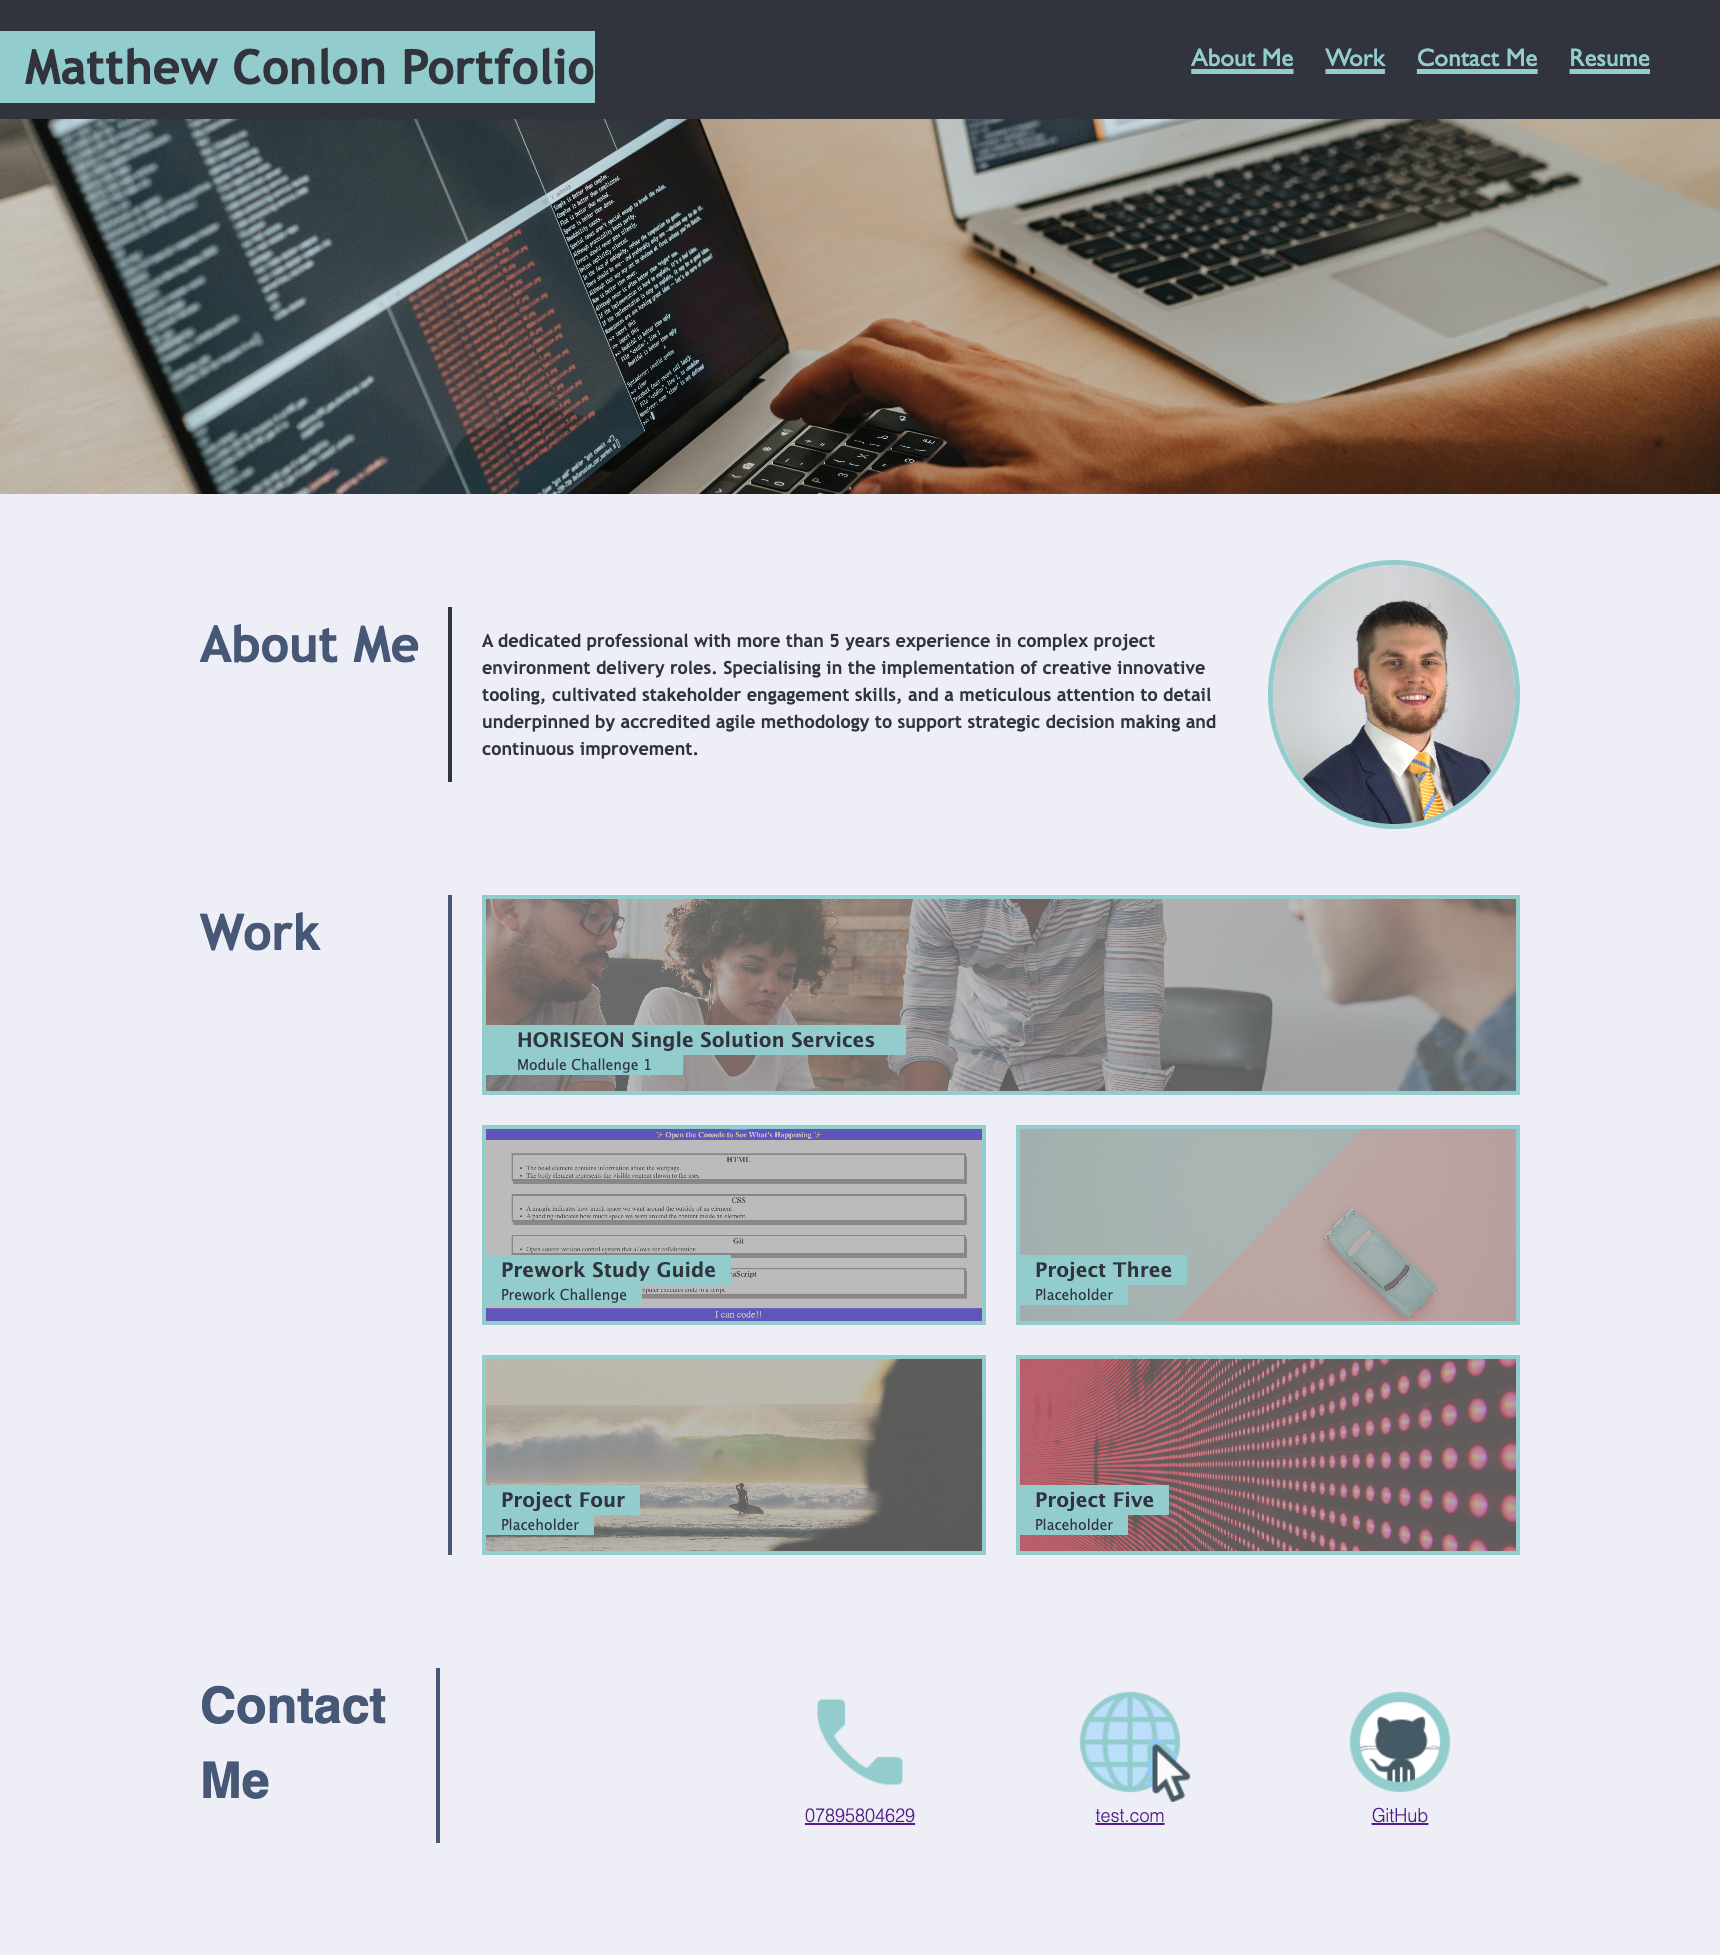
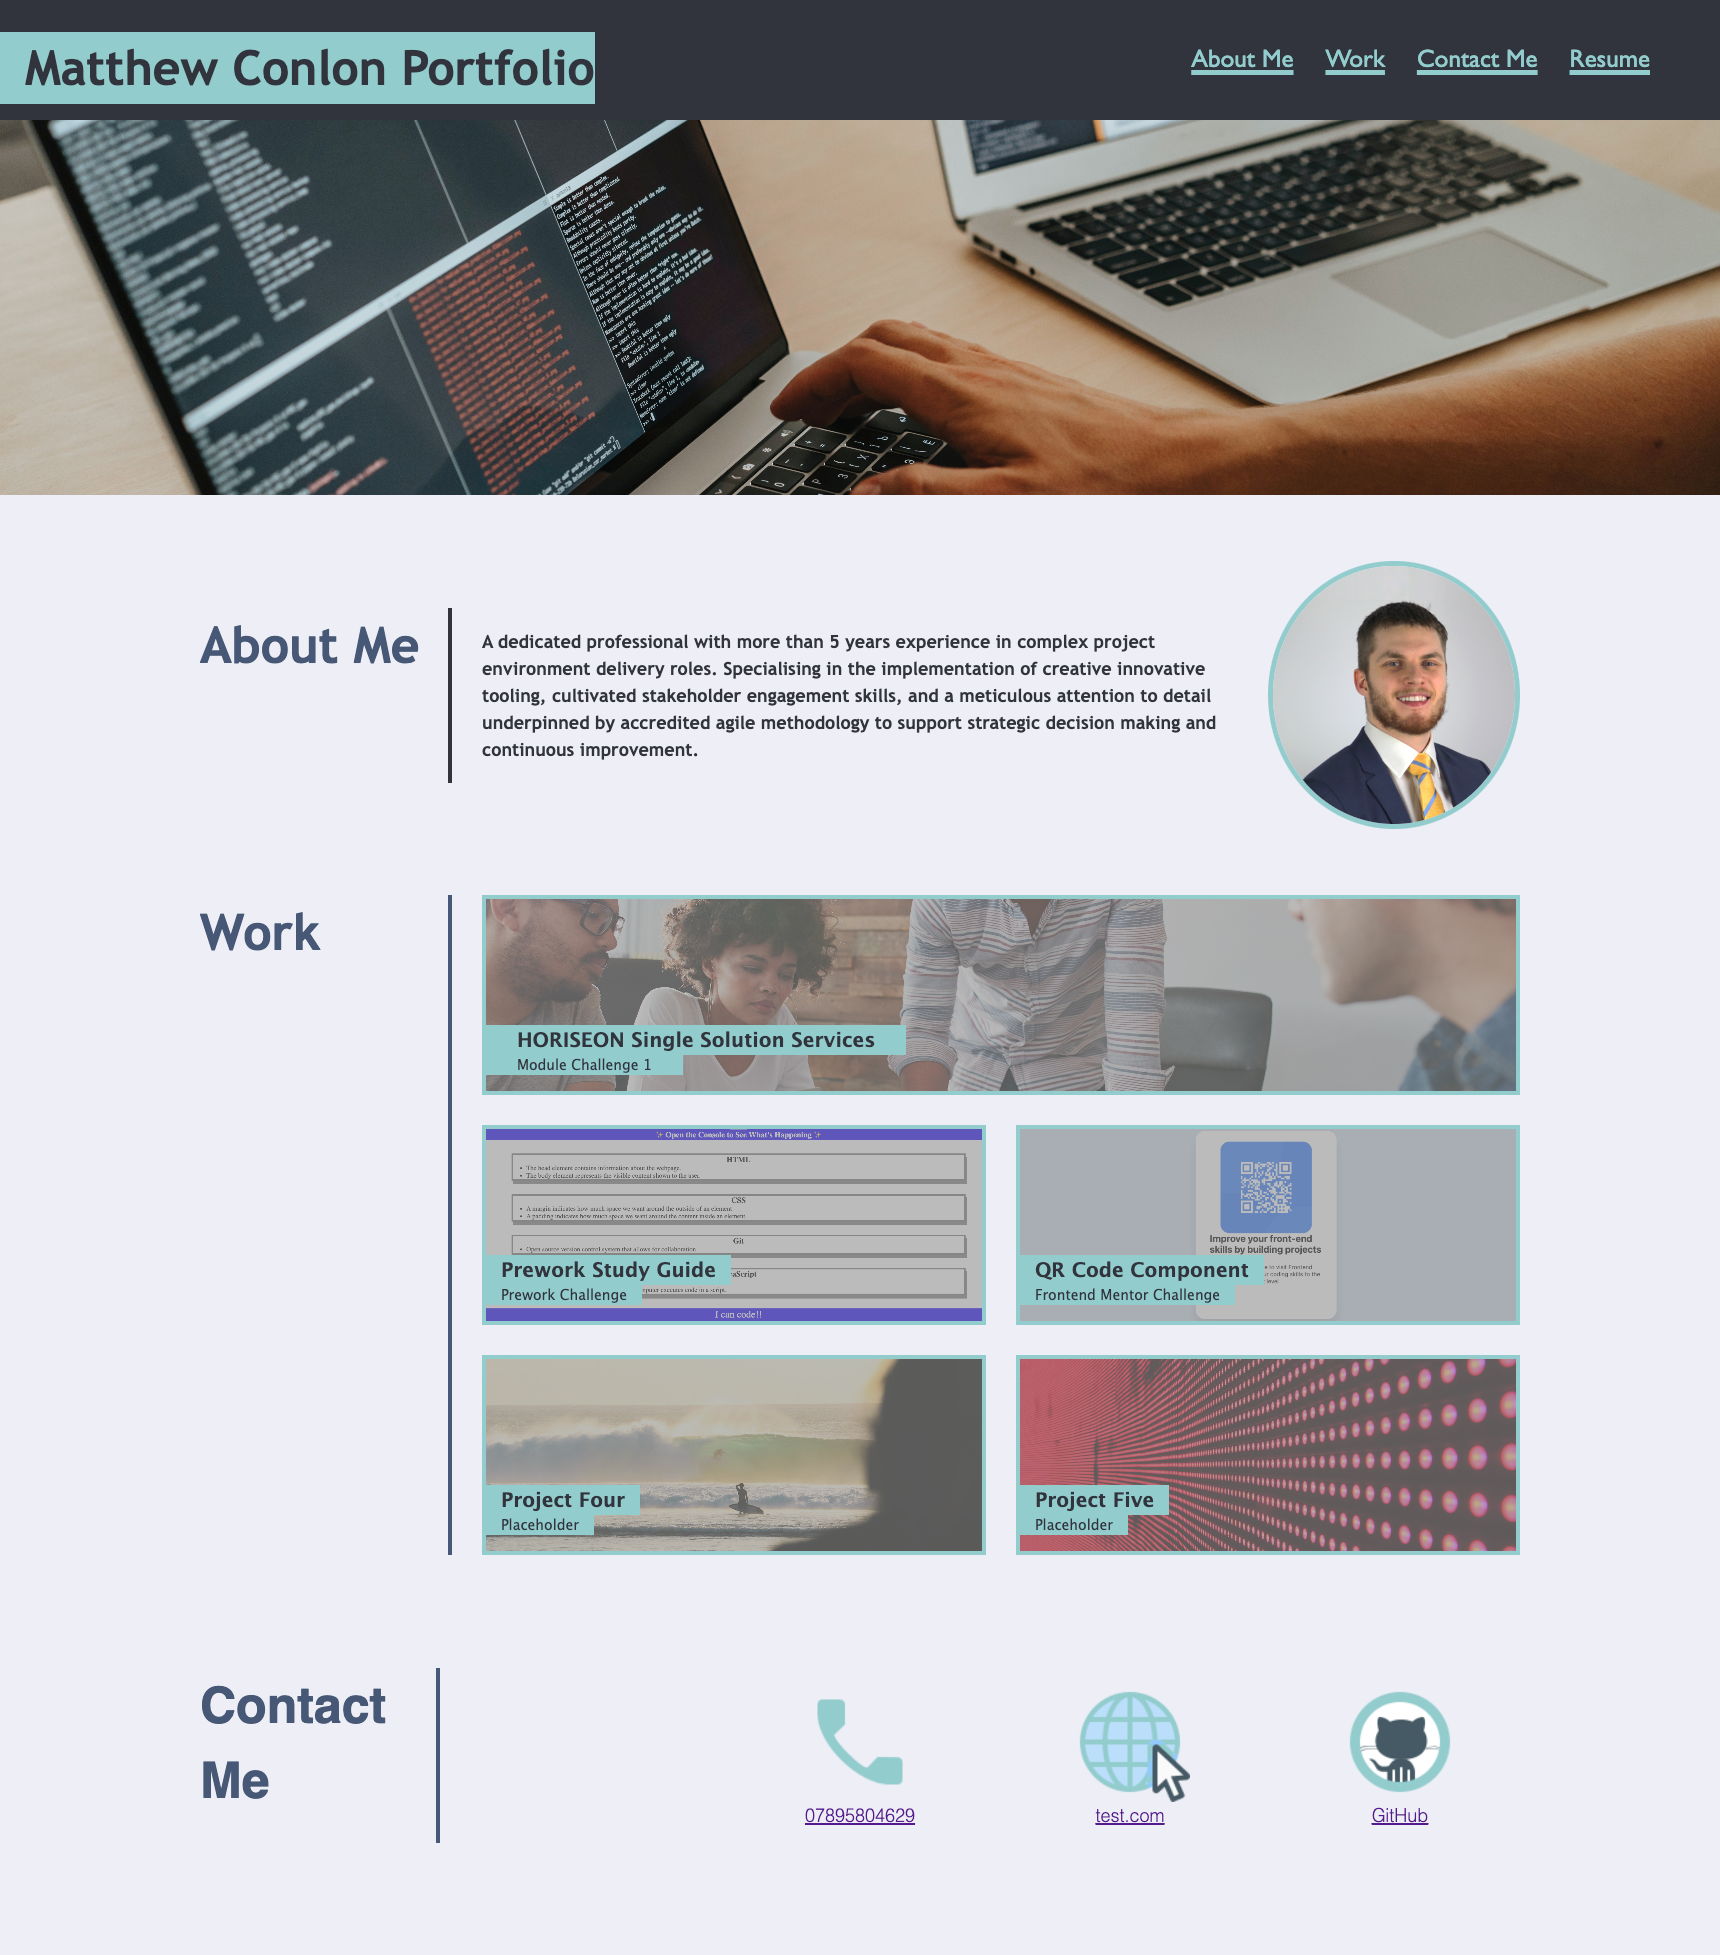
added QR code challenge to 'projectthree'

diff --git a/index.html b/index.html
@@ -64,22 +64,22 @@
       </div>
       <div class="projecttwo">
         <a href="https://mtdconlon.github.io/prework-study-guide/"><img src="./images/prework_study_guide.png"
-            alt="alt text test"></a>
+            alt="screenshot of a prework study guide showing HTML, CSS, Git, and JavaScript content"></a>
         <h2>Prework Study Guide</h2>
         <h3>Prework Challenge</h3>
       </div>
       <div class="projectthree">
-        <a href="https://www.Youtube.com/"><img src="./images/02-portfolio-3.jpg" alt="alt text test"></a>
-        <h2>Project Three</h2>
-        <h3>Placeholder</h3>
+        <a href="https://mtdconlon.github.io/QR_Code_Component/"><img src="./images/qr_code_component_screenshot.png" alt="screenshot of a QR code Component webpage with a blue background and card container with text detailing its purpose"></a>
+        <h2>QR Code Component</h2>
+        <h3>Frontend Mentor Challenge</h3>
       </div>
       <div class="projectfour">
-        <a href="https://www.Youtube.com/"><img src="./images/02-portfolio-4.jpg" alt="alt text test"></a>
+        <a href="https://placeholder.com/"><img src="./images/02-portfolio-4.jpg" alt="a placeholder image of an over the shoulder shot looking at a person holding a surfboard with oncoming waves"></a>
         <h2>Project Four</h2>
         <h3>Placeholder</h3>
       </div>
       <div class="projectfive">
-        <a href="https://www.Youtube.com/"><img src="./images/02-portfolio-1.jpg" alt="alt text test"></a>
+        <a href="https://placeholder.com/"><img src="./images/02-portfolio-1.jpg" alt="a red LED close up display"></a>
         <h2>Project Five</h2>
         <h3>Placeholder</h3>
       </div>
